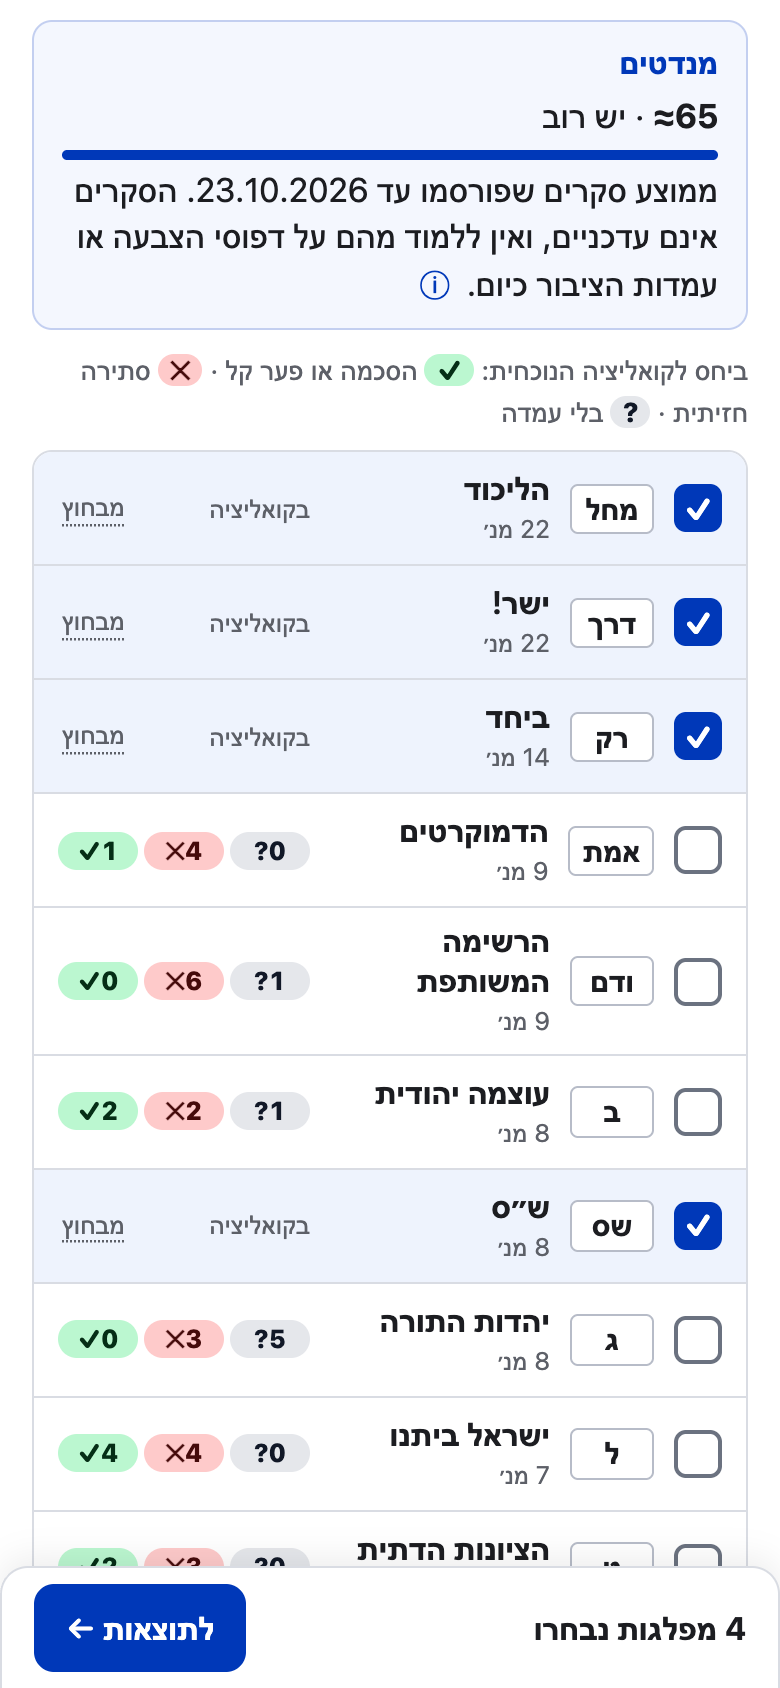
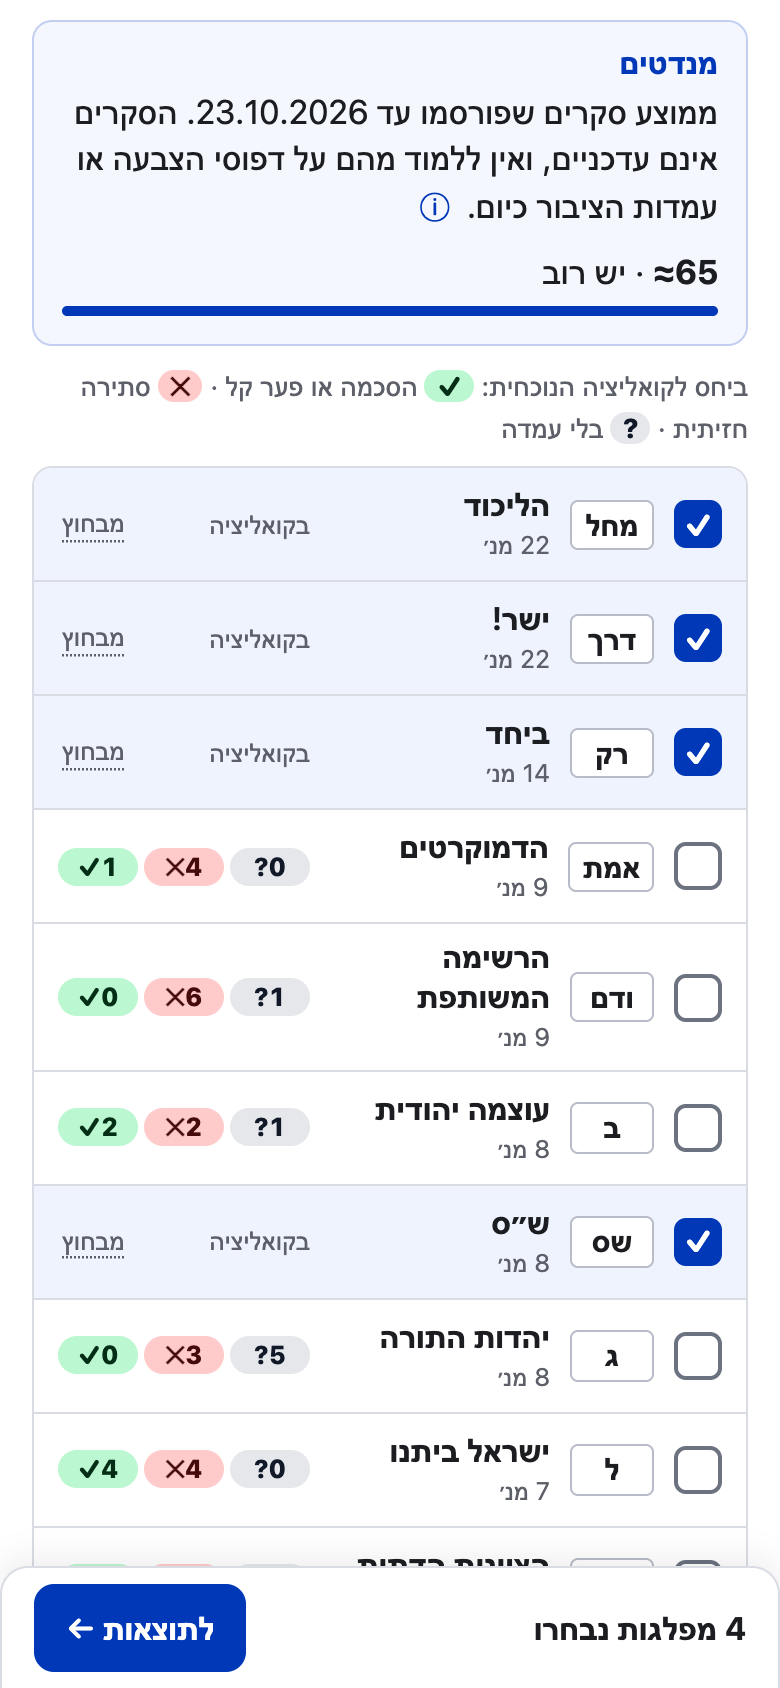
docs: README screenshots match production (sentence above seat numbers; coalition matrix with base Likud); notes on the legal-sentence order

diff --git a/CLAUDE.md b/CLAUDE.md
@@ -57,7 +57,7 @@ Do not change anything under `site/`, and do not deploy, without the user's expl
 - Change positions **only** via `node scripts/import-csv.mjs review/positions_review.csv`. Never hand-edit `site/data/positions.json`.
 - `meta.json → showSeats` (boolean): `false` hides every seat number and all poll-derived info: the threshold badge, the joint-list seat split, the poll ordering and the seat tie-breaks.
 - The election-day flip is prepared as a one-line commit on the local branch `election-day-flip`. It needs the user's OK, then `git cherry-pick election-day-flip` onto `main`, validate, smoke, and a prod deploy.
-- Wherever seat numbers or poll-derived figures show, the full legal sentence (`S.seats.pollLegal`, ממוצע סקרים שפורסמו עד … הסקרים אינם עדכניים …) must be visible with them.
+- Wherever seat numbers or poll-derived figures show, the full legal sentence (`S.seats.pollLegal`, ממוצע סקרים שפורסמו עד … הסקרים אינם עדכניים …) must be visible with them, placed before the numbers. Smoke enforces this with a simulated host badge at 390×844 and 375×667, on first load and while scrolling.
 
 ## Conventions
 - `<html lang="he" dir="rtl">`, CSS logical properties only, Latin/URLs wrapped in `<bdi>`, gershayim `״` in names.

diff --git a/docs/review-2026-10-26.md b/docs/review-2026-10-26.md
@@ -14,6 +14,8 @@ Fixed in `57f393e` and `2a4cfe7`, deployed after the user's OK:
 - C1, C2, S1, S4 and S6.
 - A new bug from the user's analytics: GoatCounter recorded local `file://` previews, including a local file path. Beacons now go out only from `https://mi-im-mi-2026.netlify.app`. Unit tests and smoke check this; smoke requires zero beacons from any other host.
 
+A later fix (`09e40dd`) moved the legal sentence above the seat numbers in the seats box and the results summary. On production, the badge-padded sticky bar had covered the sentence on first load. Smoke now simulates the badge everywhere and checks that seat totals are never visible without the full sentence.
+
 Also added in that round: the voter-info line on `#build` and a privacy note on the method page.
 
 S2 moved to **Post-election work** below. The rest is still open.
